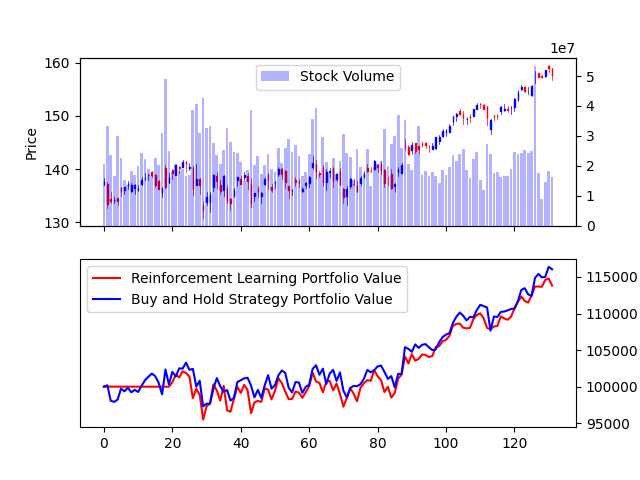
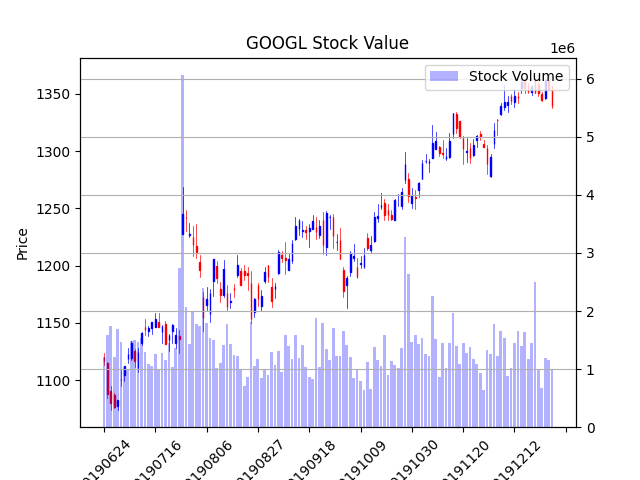
visualization enhancement

diff --git a/visualizer.py b/visualizer.py
@@ -1,7 +1,10 @@
 import threading
 import numpy as np
+import pandas as pd
 import matplotlib.pyplot as plt
-#plt.switch_backend('agg')
+import matplotlib.ticker as mticker
+import matplotlib.dates as mdates
+import datetime
 
 from mplfinance.original_flavor import candlestick_ohlc
 from agent import Agent
@@ -151,43 +154,76 @@ class Visualizer:
         with lock:
             self.fig.savefig(path)
 
-def present_stock(chart_data, pvs, buyAndHoldValue, title):
-    with lock:
-        # 캔버스를 초기화하고 5개의 차트를 그릴 준비
-        fig, axes = plt.subplots(
-            nrows=2, ncols=1, facecolor='w', sharex=True)
-        for ax in axes:
-            # 보기 어려운 과학적 표기 비활성화
-            ax.get_xaxis().get_major_formatter() \
-                .set_scientific(False)
-            ax.get_yaxis().get_major_formatter() \
-                .set_scientific(False)
-            # y axis 위치 오른쪽으로 변경
-            ax.yaxis.tick_right()
 
-        # 차트 1. 일봉 차트
-        axes[0].set_ylabel('Price')  # y 축 레이블 표시
-        x = np.arange(len(chart_data))
 
-        # open, high, low, close 순서로된 2차원 배열
-        ohlc = np.hstack((
-            x.reshape(-1, 1), np.array(chart_data)[:, 1:-1]))
-        # 양봉은 blue색으로 음봉은 red색으로 표시
-        candlestick_ohlc(
-            axes[0], ohlc, colorup='b', colordown='r')
 
-        # 거래량 가시화
-        axes[0] = axes[0].twinx()
-        volume = np.array(chart_data)[:, -1].tolist()
-        axes[0].bar(x, volume, color='b', alpha=0.3, label = 'Stock Volume')
-        axes[0].legend()
 
-        axes[1].plot(x, pvs, color='r', label = 'Reinforcement Learning Portfolio Value')
-        axes[1].plot(x, buyAndHoldValue, color='b', label = 'Buy and Hold Strategy Portfolio Value')
+def present_stock(chart_data, stock_name):
+    import matplotlib.pyplot as plt
+    import matplotlib.ticker as mticker
 
-        axes[1].legend()
-        plt.savefig("present_stock.png")
-        plt.show()
+    # 차트 1. 일봉 차트
+
+    fig = plt.figure()
+    ax1 = plt.subplot2grid((1, 1), (0, 0))
+
+    plt.ylabel('Price')  # y 축 레이블 표시
+    x = np.arange(len(chart_data))
+
+    # open, high, low, close 순서로된 2차원 배열
+    ohlc = np.hstack((
+        x.reshape(-1, 1), np.array(chart_data)[:, 1:-1]))
+
+    # 양봉은 blue색으로 음봉은 red색으로 표시
+    candlestick_ohlc( ax1, ohlc, colorup='b', colordown='r')
+    for label in ax1.xaxis.get_ticklabels():
+        label.set_rotation(45)
+
+    # 거래량 가시화
+    ax1 = ax1.twinx()
+    volume = np.array(chart_data)[:, -1].tolist()
+    ax1.bar(list(chart_data['date']), volume, color='b', alpha=0.3, label = 'Stock Volume')
+
+    ax1.xaxis.set_major_locator(mticker.MaxNLocator(10))
+
+    for label in ax1.xaxis.get_ticklabels():
+        label.set_rotation(45)
+
+    ax1.grid(True)
+    ax1.legend()
+
+    plt.title(stock_name +' Stock Value')
+
+    plt.savefig("present_stock.png")
+    plt.show()
+
+
+def preset_buyAndHold (chart_data, pvs, buyAndHoldValue):
+
+    fig, ax = plt.subplots()
+
+    plt.title('Comparison between Buy-And-Hold and DQN portfolio ')
+    plt.ylabel('Portfolio Value')
+    plt.xlabel('Date')
+    xs = chart_data['date'].to_list()
+    print (xs[: 10])
+
+    plt.plot(xs, pvs, color='r', label='Reinforcement Learning Portfolio Value')
+    plt.plot(xs, buyAndHoldValue, color='b', label='Buy and Hold Strategy Portfolio Value')
+
+    # plt.set_xticks(np.arange(len(xs)))
+    # plt.set_xticklabels(xs)  # set the ticklabels to the list of datetimes
+
+    for label in ax.xaxis.get_ticklabels():
+        label.set_rotation(45)
+
+    ax.xaxis.set_major_locator(mticker.MaxNLocator(10))
+    ax.grid(True)
+
+    plt.legend()
+    plt.savefig("buy_and_hold.png")
+    plt.show()
+
 
 
 def present_steps(chart_data, steps, steps_pvs):
@@ -196,13 +232,19 @@ def present_steps(chart_data, steps, steps_pvs):
         # 캔버스를 초기화하고 5개의 차트를 그릴 준비
         plt.xlabel('Date')
         plt.ylabel('Price')
-        plt.title('Portfolio Value by Steps')
+        plt.title('Portfolio Value by LSTM Steps')
 
         x = np.arange(len(chart_data))
-        color_code = ['r', 'g', 'b']
+        color_code = ['r', 'g', 'b', 'k', 'c', 'm', 'y']
 
         for i in range(len(steps_pvs)) :
-            plt.plot(x, steps_pvs[i], color = color_code[i], label = 'number of steps {}'.format(steps[i]))
+            plt.plot(list(chart_data['date']), steps_pvs[i], color = color_code[i], label = 'number of steps {}'.format(steps[i]))
+
+            ax.xaxis.set_major_locator(mticker.MaxNLocator(10))
+            for label in ax.xaxis.get_ticklabels():
+                label.set_rotation(45)
+
+            ax.grid(True)
 
         plt.legend()
         plt.savefig("present_steps.png")

diff --git a/main.py b/main.py
@@ -145,25 +145,21 @@ def buyAndHold(chart_data):
     buyAndHoldValue = [x * numberOfStock for x in priceHistory ]
     return buyAndHoldValue
 
-
 if __name__ == '__main__':
 
-    #args = init(stock_code, num_epoches, num_steps)
-    args = init('MSFT', 10, 20)
+    # #args = init(stock_code, num_epoches, num_steps)
+    args = init('GOOGL', 5, 5)
     chart_data, pvs = executor(args)
     buyAndHoldValue = buyAndHold(chart_data)
-    visualizer.present_stock (chart_data, pvs, buyAndHoldValue, "test")
+    visualizer.present_stock (chart_data, stock_name='GOOGL')
+    visualizer.preset_buyAndHold(chart_data, pvs, buyAndHoldValue)
 
-
-    # steps = [5,10,20]
+    # steps = [3,4,5,6,10]
     # steps_pvs = []
     # for step in steps :
-    #     args = init('MSFT', 10, step)
+    #     args = init('GOOGL', 5, step)
     #     chart_data, pvs = executor(args)
     #     steps_pvs.append(pvs)
     # visualizer.present_steps(chart_data, steps, steps_pvs)
-
-
-
 
 
